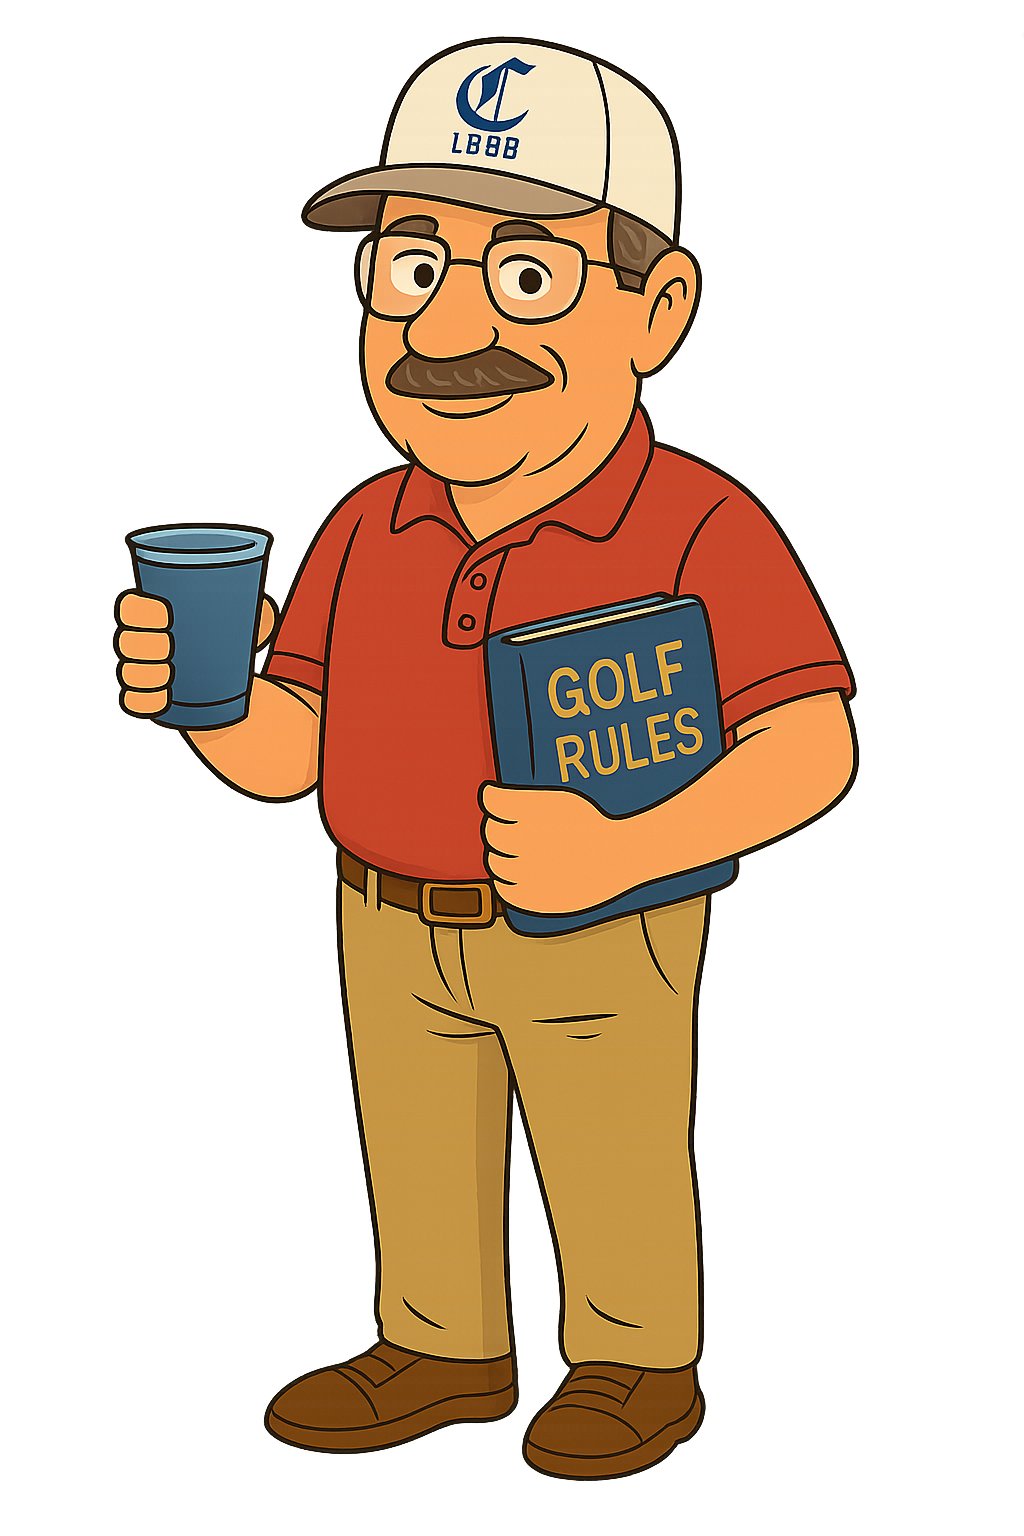
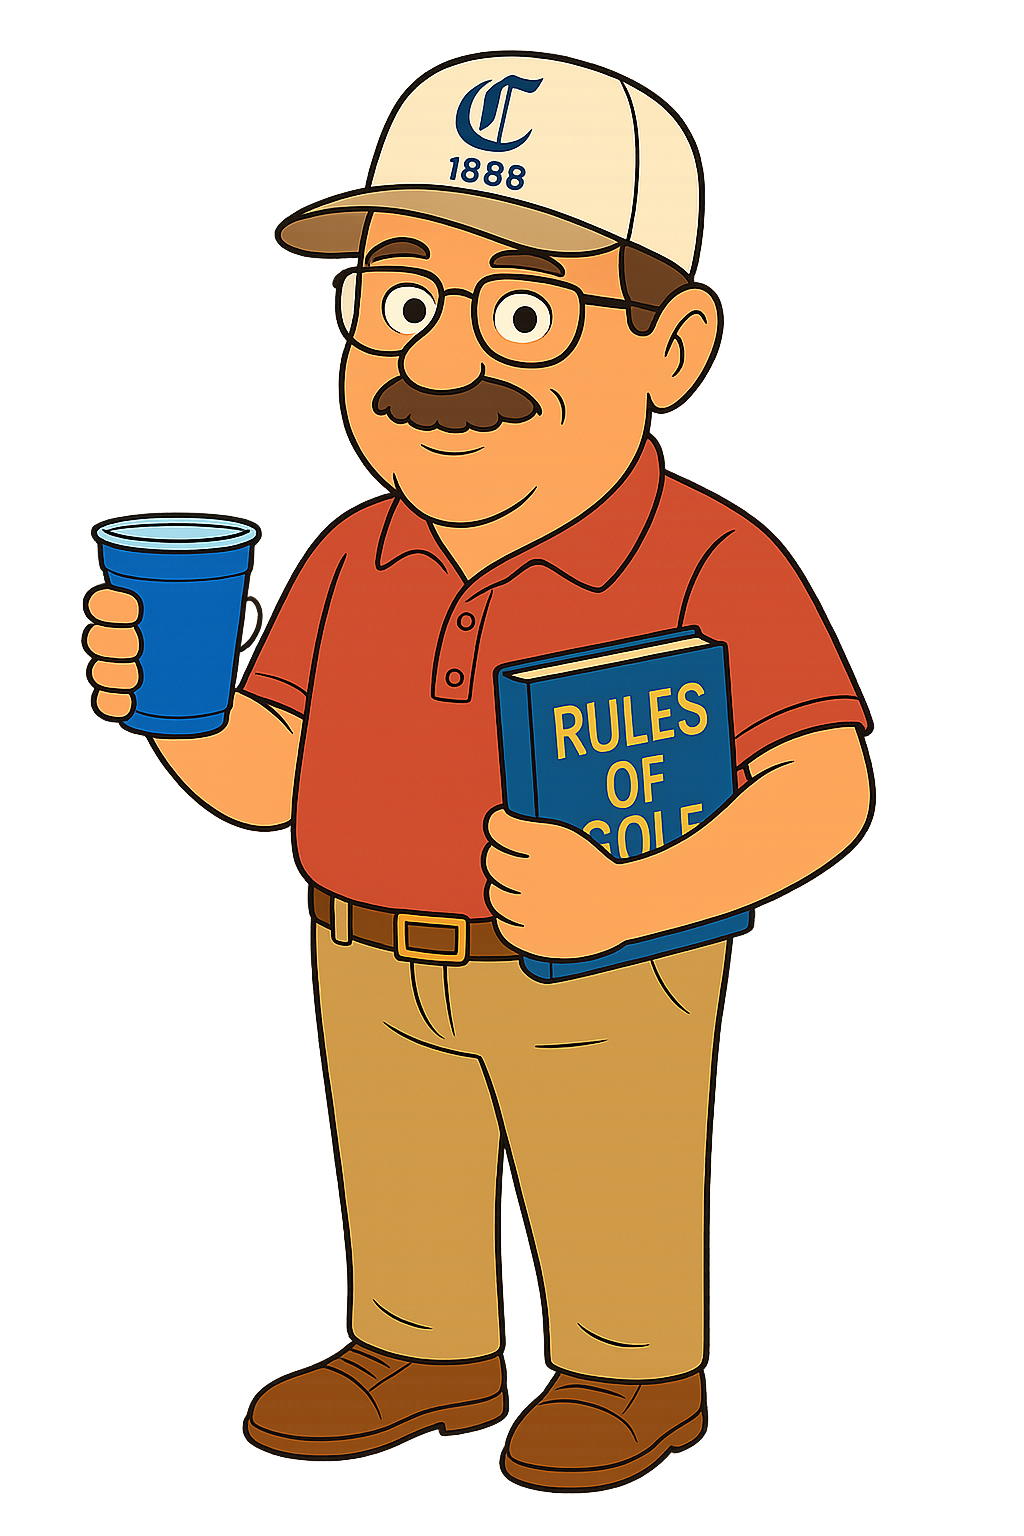
repositioning

Changed region(s): [[0.0625, 0.0, 0.875, 1.0], [0.75, 0.3438, 0.7812, 0.375]]

diff --git a/src/ColumbiaApp.tsx b/src/ColumbiaApp.tsx
@@ -418,17 +418,22 @@ export default function ColumbiaApp() {
       <header className="bg-white shadow-sm">
         <div className="max-w-md mx-auto px-4 py-4">
           <div className="text-center">
-            <h1 className="text-lg font-bold text-gray-800">Columbia Country Club</h1>
-            <div className="mt-2 relative">
+            <h1 
+              className="font-bold text-gray-800" 
+              style={{ fontSize: '16px' }}
+            >
+              Columbia Country Club
+            </h1>
+            <div className="mt-2 w-full text-left">
   	      <img 
                 src="/images/rules-official.png" 
                 alt="Rules Official" 
                 style={{ 
                   width: '190px', 
                   height: '190px',
-		  position: 'absolute',
-		  left: '0', 
                   objectFit: 'contain'
+		  marginLeft: '0',
+		  float: 'left'
                 }}
               />
             </div>
